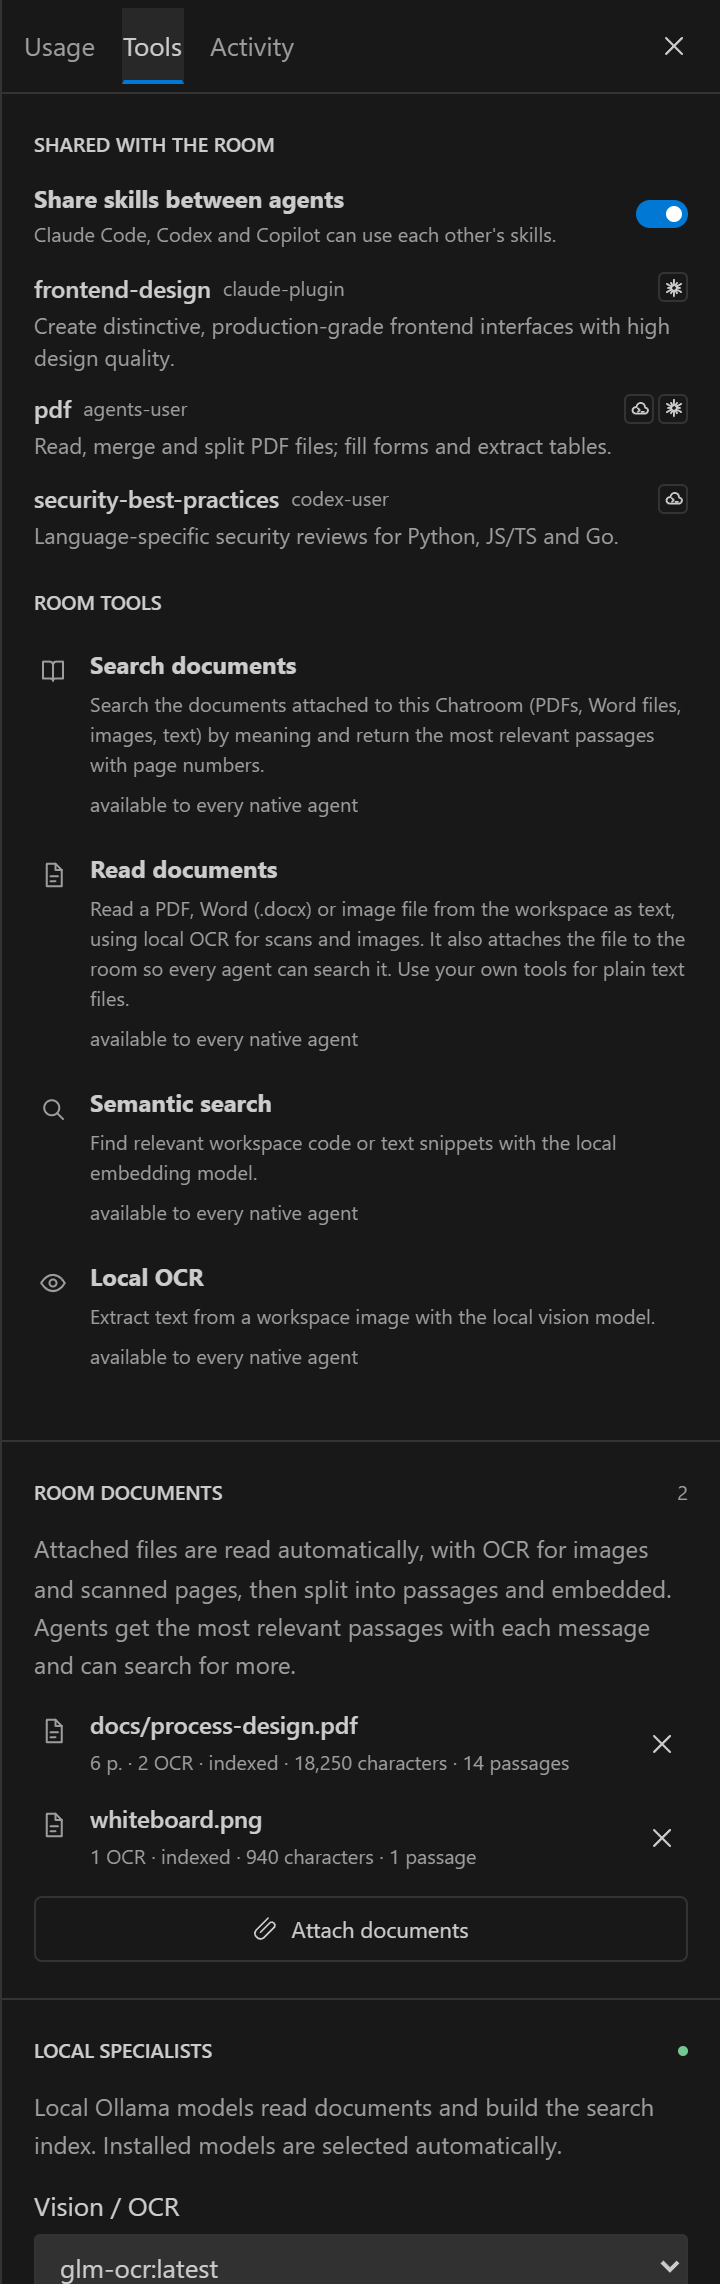
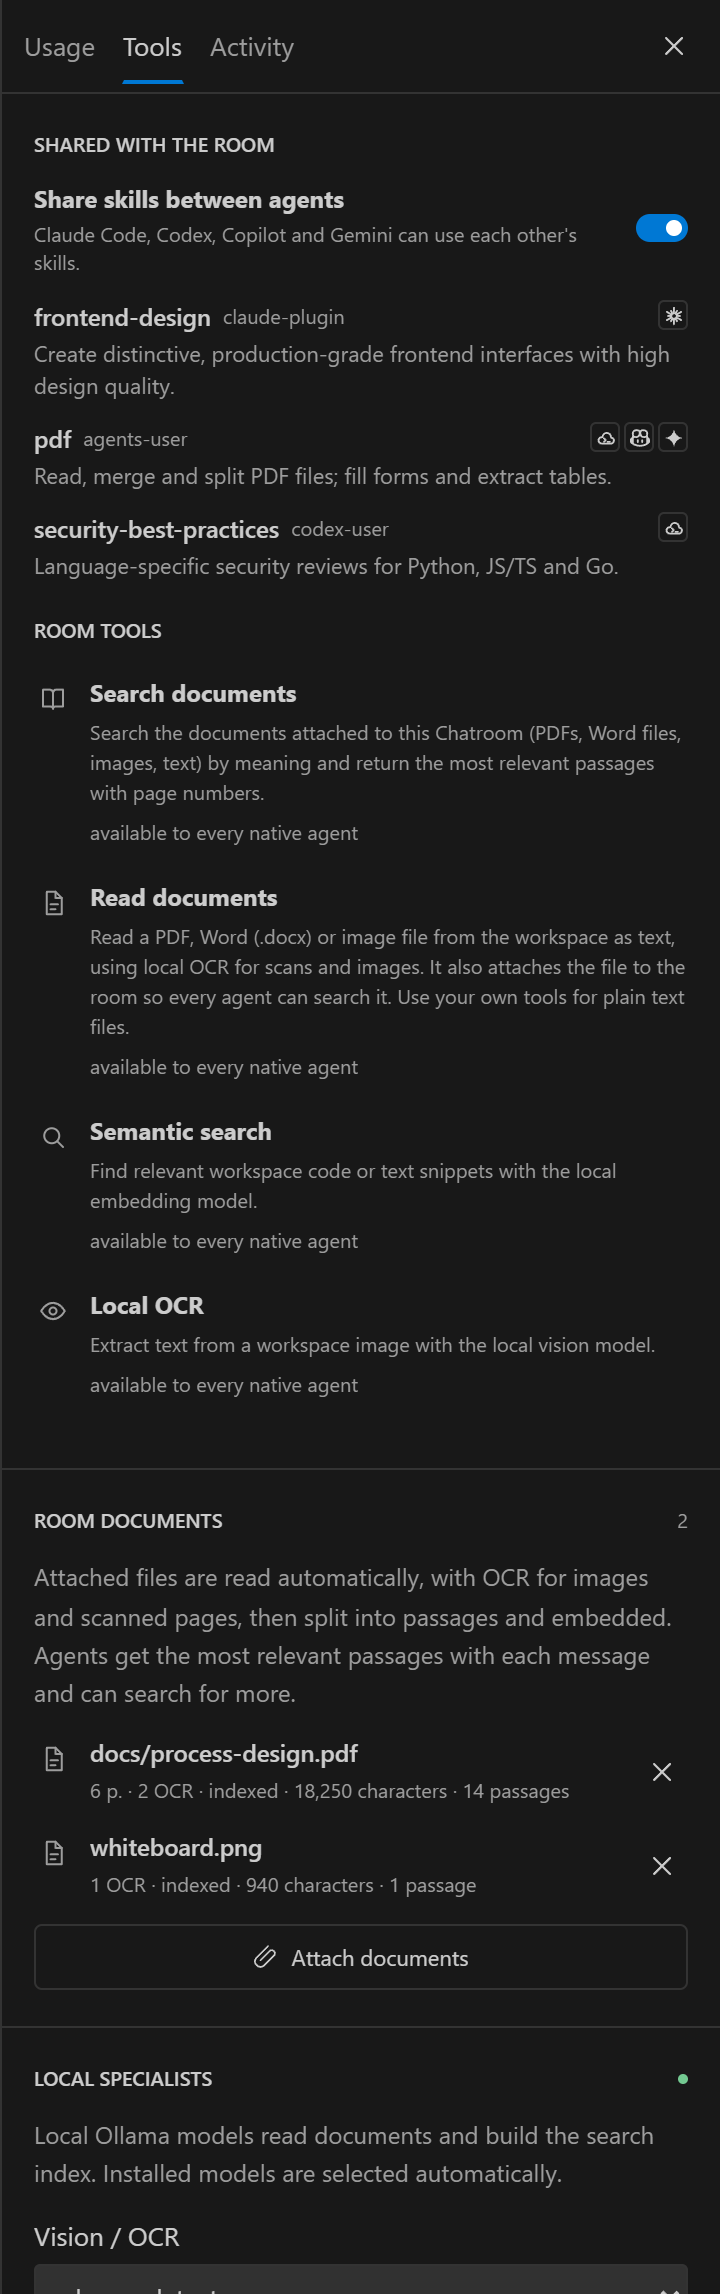
Retake the screenshots for 0.8.0 and add new ones
- Retake every screenshot from the current webview, so the new CLI
  appears in the room, the team and the plan, and each agent's card
  shows what it can do today.
- Add images for the chat list, the add dialog and tool switches, and
  for the new CLI's settings, Tools card and update prompt, with
  captions in the README.
- The screenshot script gains a fourth agent, long lists, other chats
  and a saved team. It can click several controls before a shot and
  retake a single image.

diff --git a/README.md b/README.md
@@ -4,7 +4,7 @@
 
 A VS Code extension where the real Claude Code, Codex, GitHub Copilot and Gemini CLIs work in one chat room with you, plus local Ollama models. Each agent is the CLI itself, with its own tools, skills, slash commands, MCP servers, sessions, effort levels and permission modes. The agents see each other's messages, hand work to each other with `@mentions`, and can work as a team under a lead. Attach PDFs, Word files or images, and every agent can read and search them using local OCR and embeddings.
 
-<p align="center"><img src="docs/images/lead-team.png" width="860" alt="Team mode: the lead's plan, with two steps in parallel and a third that builds on both"><br><em>Team mode. Claude leads: Codex and Copilot take two steps in parallel, Claude checks both against the code, then writes the final answer.</em></p>
+<p align="center"><img src="docs/images/lead-team.png" width="860" alt="Team mode: the lead's plan, with three steps in parallel and a fourth that builds on them"><br><em>Team mode, with Gemini added to the room. Claude leads: Codex, Copilot and Gemini take three steps in parallel, Claude checks them against the code, then writes the final answer.</em></p>
 
 ## Features
 
@@ -71,6 +71,13 @@ npm run package
 
 The room title opens your chats: click one to switch to it, or the trash icon beside it to delete it. A chat with messages asks first, because deleting can't be undone; an empty one goes at once. Deleting removes the chat from Chatroom and stops its CLIs. Worktree changes you haven't applied are kept on a `chatroom/orphaned/…` branch. Each CLI keeps its own session files, and documents stay in the local cache other chats share.
 
+<table>
+  <tr>
+    <td align="center" width="50%"><img src="docs/images/chats.png" width="320" alt="The chat list open under the room title, with a trash icon beside each chat and one chat asking to confirm its delete"><br><em>The room title opens your chats, each with a trash icon. A chat with messages asks first and says what happens to its unapplied work.</em></td>
+    <td align="center" width="50%"><img src="docs/images/add-agent.png" width="320" alt="The add agent dialog listing Codex, Claude Code, GitHub Copilot, Gemini CLI and Ollama"><br><em><b>+</b> in the team strip adds an agent, including the Gemini CLI.</em></td>
+  </tr>
+</table>
+
 The grid button beside the room title opens **Usage**, **Tools** and **Activity**. **Chatroom: Open in Editor** opens the room in an editor tab beside your current one.
 
 <table>
@@ -84,7 +91,7 @@ The grid button beside the room title opens **Usage**, **Tools** and **Activity*
 
 <table>
   <tr>
-    <td align="center" width="50%"><img src="docs/images/tools.png" width="320" alt="Tools tab listing each agent's own tools, skills, MCP servers and commands"><br><em><b>Tools</b>: each agent's own tools, skills, MCP servers and commands, as its CLI reports them.</em></td>
+    <td align="center" width="50%"><img src="docs/images/tools.png" width="320" alt="Tools tab listing each agent's own tools, skills, MCP servers and commands"><br><em><b>Tools</b>: each agent's own tools, skills, MCP servers and commands, as its CLI reports them. Click one to turn it off; <b>+N more</b> opens the rest.</em></td>
     <td align="center" width="50%"><img src="docs/images/usage.png" width="320" alt="Usage tab with tokens by agent"><br><em><b>Usage</b>: tokens per agent, cached re-reads, cost when the CLI reports it, and the optional token limit per message.</em></td>
   </tr>
 </table>
@@ -271,9 +278,23 @@ Chatroom runs the Gemini CLI as `gemini --acp`, with its own tools, skills, MCP 
 - **Different from the other CLIs:** it doesn't list its tools, so you [turn one off by name](#turning-tools-off). It has no `/compact` here; it compresses its own session when it fills up. It has no effort levels, think harder or Ultra, and project settings (`GEMINI.md`) can't be turned off per agent.
 - **Your files:** what Chatroom needs from the CLI goes in a small policy file in the extension's storage. Nothing is written to `~/.gemini`.
 
+<table>
+  <tr>
+    <td align="center" valign="top" width="50%"><img src="docs/images/gemini-settings.png" width="320" alt="Agent settings for Gemini: model, permissions, worktree, web search, MCP servers, skills and extra folders"><br><em>Gemini's settings. Project settings are greyed out because the CLI has no switch for them.</em></td>
+    <td align="center" valign="top" width="50%"><img src="docs/images/gemini-update.png" width="320" alt="The Gemini card in the Tools tab saying version 0.1.18 is too old, with an Update Gemini CLI button"><br><em>A CLI that is too old says so and offers the update. Chatroom doesn't start it.</em></td>
+  </tr>
+</table>
+
 ## Turning tools off
 
 The **Tools** tab lists what each agent has. Click an item to turn it off for that agent; click it again to turn it back on. **+N more** opens the rest of a long list. A change applies from the agent's next turn: its CLI restarts if it has to, and its session continues. Turned-off items are saved with the agent in that room, and a new room starts with everything on. Nothing is written to your CLI settings files.
+
+<table>
+  <tr>
+    <td align="center" valign="top" width="50%"><img src="docs/images/tool-switches.png" width="320" alt="Claude's card in the Tools tab with tools, a skill, an MCP server and commands struck through, and the commands list open"><br><em>Turned-off items stay listed, struck through, and the labels count them. Here the commands list is open; <b>Show fewer</b> closes it.</em></td>
+    <td align="center" valign="top" width="50%"><img src="docs/images/gemini-tools.png" width="320" alt="Gemini's card in the Tools tab with two tools turned off by name and one skill turned off"><br><em>Gemini doesn't list its tools, so these two were typed by name.</em></td>
+  </tr>
+</table>
 
 | Item | Claude Code | Codex | Copilot CLI | Gemini CLI |
 | --- | --- | --- | --- | --- |
